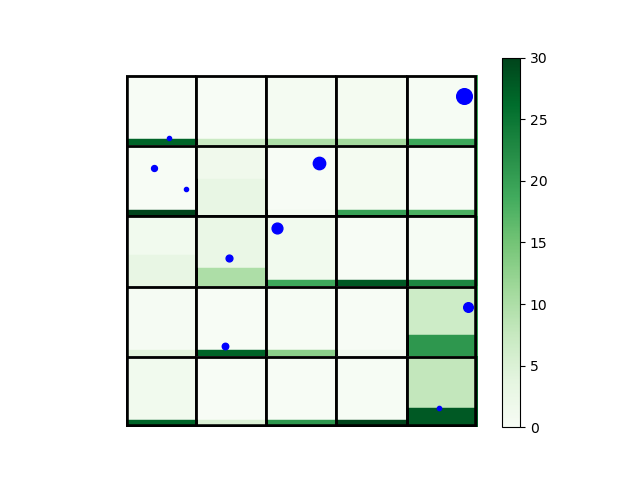
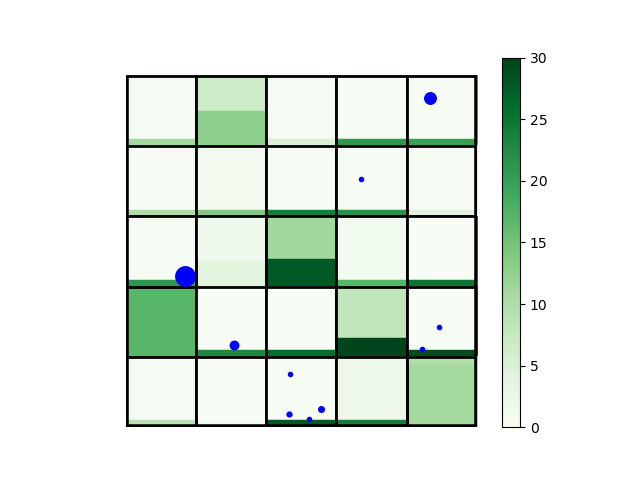
funding implementation without debugging

diff --git a/Run.py b/Run.py
@@ -7,14 +7,22 @@ from classScientist import *
 weights = {
     "citation" : 0, 
     "impact" : 0.1,
-    "exploration" : 1
+    "exploration" : 1,
+    "funding" : 0
 }
 
 funding = {
-    "total" : 50,
+    "total" : 100,
     "decrease" : 1,
     "replenishTime" : 5,
     "minimum" : 10
+}
+
+chooseCellToFund = {
+    "visPayoff" : 0,
+    "starFactor" : 0,
+    "numHits" : 0,
+    "numSciHits" : 0
 }
 
 def oneRun(board, cellsHit, numRun):
@@ -26,16 +34,14 @@ def oneRun(board, cellsHit, numRun):
             for scientist in sciOrder:
                 scientist.sciQuery(key, board)
                 scientist.cite(val)
-                # print("scientist: ", scientist)
         else:
             val[0].sciQuery(key, board)
-            # print("scientist: ", val[0])
     board.drawBoard(cellsHit, numRun)
     return board
 
-def distributeFunding(dept):
+def distributeFundingSci(dept, cellFunding):
     """
-    distribute the funding allotted for each board
+    distribute the funding allotted for each cell to the scientists in the cell
     """
     denominator = 0
     probabilities = np.zeros_like(dept)
@@ -48,7 +54,6 @@ def distributeFunding(dept):
             star = star
         else:
             star = 1
-
         denominator += np.exp(star)
 
     for i in range(len(dept)):
@@ -59,15 +64,77 @@ def distributeFunding(dept):
             star = star
         else:
             star = 1
-
         numerator = np.exp(star)
+        
         probabilities[i] = numerator / denominator
         # distribute funding based on starFactor for each scientist compared to whole department
-        dept[i].funding += probabilities[i] * funding["total"]
+        dept[i].funding += probabilities[i] * cellFunding
+        # to debug code, you might want to run the following line to distribute funding evenly
         # dept[i].funding += funding["total"]/(len(dept))
 
     return [sci.funding for sci in dept]
     # go through scientists, add to their funding proportion of total
+
+def distributeFundingCell(board):
+    """distributes funding to each cell based on historical numHits"""
+    # Calculate the probabilities for each cell
+    probabilities = np.zeros_like(board.board)
+    denominator = 0
+    for x in range(board.rows):
+        for y in range(board.cols):
+            cell = board.board[x][y]
+            #find the average of scientists' starFactors in this cell
+            starSum = 0
+            avgStarSum = 0
+            if cell.location in board.cellsHit.keys():
+                for sci in board.cellsHit[cell.location]:
+                    starSum += sci.getStarFactor()
+                avgStarSum = starSum/cell.numSciHits
+
+            # account for the fact that starFactor can be negative
+            if avgStarSum <= -1:
+                starWeight = chooseCellToFund["starFactor"] * 1/abs(avgStarSum)
+            elif avgStarSum >= 1:
+                starWeight = chooseCellToFund["starFactor"] * (avgStarSum)
+            else:
+                starWeight = chooseCellToFund["starFactor"]
+            #calculates the rest of the weights
+            visWeight = chooseCellToFund["visPayoff"] * (board.getVisPayoff(cell.location))
+            numHitsWeight = chooseCellToFund["numHits"] * (cell.numHits)
+            recentHitsWeight = chooseCellToFund["numSciHits"] * (cell.numSciHits)
+
+            denominator += np.exp(visWeight + starWeight + numHitsWeight + recentHitsWeight)
+    for j in range(board.rows):
+        for k in range(board.cols):
+            cell = board.board[j][k]
+            #find the average of scientists' starFactors in this cell
+            starSum = 0
+            avgStarSum = 0
+            if cell.location in board.cellsHit.keys():
+                for sci in board.cellsHit[cell.location]:
+                    starSum += sci.getStarFactor()
+                avgStarSum = starSum/cell.numSciHits
+
+            # account for the fact that starFactor can be negative
+            if avgStarSum <= -1:
+                starWeight = chooseCellToFund["starFactor"] * 1/abs(avgStarSum)
+            elif avgStarSum >= 1:
+                starWeight = chooseCellToFund["starFactor"] * (avgStarSum)
+            else:
+                starWeight = chooseCellToFund["starFactor"]
+
+            visWeight = chooseCellToFund["visPayoff"] * (board.getVisPayoff(cell.location))
+            numHitsWeight = chooseCellToFund["numHits"] * (cell.numHits)
+            recentHitsWeight = chooseCellToFund["numSciHits"] * (cell.numSciHits)
+
+            numerator = np.exp(visWeight + starWeight + numHitsWeight + recentHitsWeight)
+            probabilities[j][k] = numerator / denominator
+
+            #fund cell and then scientist based on probabilities
+            cell.funds = probabilities[j][k] * funding["total"]
+            if cell.location in board.cellsHit.keys():
+                distributeFundingSci(board.cellsHit[cell.location], cell.funds)
+    return probabilities
 
 def batchRun(board, numScientists, numRuns):
     """
@@ -80,24 +147,26 @@ def batchRun(board, numScientists, numRuns):
     for j in range(numRuns):
         # keep track of which cells the scientists are hitting to check overlap
         if j % funding["replenishTime"] == 0:
-            print("funding: ", distributeFunding(dept))
+            print("cellsHit: ", board.cellsHit)
+            print("funding: ", distributeFundingCell(board))
 
-        cellsHit = {}
+        board.cellsHit = {}
         for idx in range(len(dept)):
             scientist = dept[idx]
             scientist.funding -= funding["decrease"]
             location = scientist.chooseCell(board, weights)
-            if location in cellsHit.keys():
-                cellsHit[location].append(scientist)
+            if location in board.cellsHit.keys():
+                board.cellsHit[location].append(scientist)
             else:
-                cellsHit.update({location : [scientist]})
+                board.cellsHit.update({location : [scientist]})
             if (scientist.career == 0) or (scientist.funding <= funding["minimum"]):
                 # when one scientist ends their career, another is introduced
+                print("died!")
                 dept.remove(scientist)
                 dept.append(Scientist())
         # print statistics at the end of the run
         print()
-        print("Board with payoff values: ", oneRun(board, cellsHit, j+1))
+        print("Board with payoff values: ", oneRun(board, board.cellsHit, j+1))
         print()
         # print("Department: ", dept)
     currTotal = sum(board.flatten(board.getPayoffs()))

diff --git a/classScientist.py b/classScientist.py
@@ -43,6 +43,15 @@ class Scientist():
         else:
             i = weights["impact"]
 
+        fundToCareer = (self.funding-(31 - self.career))
+        # if they have a low fundToCareer difference, then they value funding more
+        if fundToCareer <= -1:
+            f = weights["funding"] * abs(fundToCareer)
+        elif fundToCareer >= 1:
+            f = weights["funding"] * (1/fundToCareer)
+        else:
+            f = weights["funding"]
+
         e = weights["exploration"]
 
         # Calculate the probabilities for each cell
@@ -50,18 +59,16 @@ class Scientist():
         denominator = 0
         for x in range(board.rows):
             for y in range(board.cols):
-                # i should be associated with board payoff value
-                # e should be associated with numHits on the cell
-                # c should be associated with num scientists on the cell
-                # scientists see how much payoff has been extracted (visiblePayoff)
-                visiblePayoff = (board.originalPays[y][x] - board.board[x][y].payoff)
-                denominator += np.exp((c * board.board[x][y].numSciHits) + (i * visiblePayoff) + (e * 1/(1+board.board[x][y].numHits)))
+                cell = board.board[x][y]
+                denominator += np.exp((c * cell.numSciHits) +
+                    (i * board.getVisPayoff(cell.location)) + (f * cell.funds) +
+                    (e * 1/(1+cell.numHits)))
         for j in range(board.rows):
             for k in range(board.cols):
-                X1 = board.board[j][k]
-                visiblePayoff = (board.originalPays[k][j] - board.board[j][k].payoff)
+                cell = board.board[j][k]
                 
-                numerator = np.exp((c * X1.numSciHits) + (i * visiblePayoff) + (e * 1/(1 + X1.numHits)))
+                numerator = np.exp((c * cell.numSciHits) + (i * board.getVisPayoff(cell.location)) +
+                    (e * 1/(1 + cell.numHits)) + (f * cell.funds))
                 
                 probabilities[j][k] = numerator / denominator
 

diff --git a/classBoard.py b/classBoard.py
@@ -25,6 +25,8 @@ class Board():
         self.board = [[Cell(np.random.choice(self.randomRange), (i, j)) for j in range(self.cols)] for i in range(self.rows)]
         self.originalPays = self.getPayoffs()
         self.totalPayoff = sum(self.flatten(self.originalPays))
+        #dictionary of cell location with scientists currently querying it
+        self.cellsHit = {}
 
     def __repr__(self):
         """string representation of Board"""
@@ -35,6 +37,14 @@ class Board():
         makes it easier to get a heatmap from a 2D matrix of data"""
         # note that the x and y coordinates were flipped to make the heatmap
         return [[self.board[i][j].payoff for i in range(self.cols)] for j in range(self.rows)]
+
+    def getVisPayoff(self, location):
+        '''
+        returns the payoff that has been extracted from given cell location;
+        this is what is visible to the scientists
+        '''
+        return (self.originalPays[location[1]][location[0]] - self.board[location[0]][location[1]].payoff)
+
 
     def flatten(self, matrix):
         """turns a 2D matrix into a 1D list"""

diff --git a/classCell.py b/classCell.py
@@ -9,6 +9,7 @@ class Cell():
         self.lowerx, self.upperx, self.yList = self.logiFunc(15, 10)
         self.stepSize, self.slopeVals = self.setStepSize(10, 0.5)
         self.numSciHits = 0
+        self.funds = 0
 
     def __repr__(self):
         "string representation of Cell"
